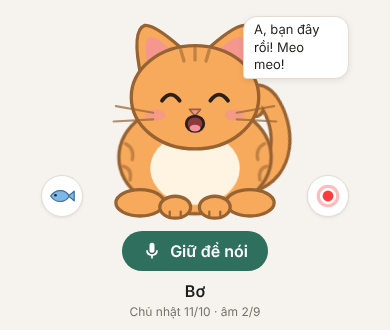
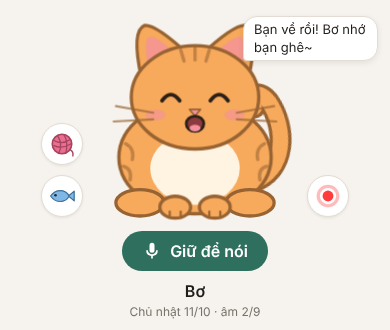
Bong bóng câu nói rộng hơn, không đè tai Bơ trên màn nhỏ
Claude-Session: https://claude.ai/code/session_01H9zge3Cp5n43mZAVMG47W6

diff --git a/web/meo.css b/web/meo.css
@@ -146,9 +146,10 @@ header.dang-laser { touch-action: none; cursor: crosshair; position: relative; }
 .len svg { width: 100%; height: 100%; display: block; }
 .len:active { cursor: grabbing; }
 .nut-meo[aria-pressed="true"] { border-color: #ff3b3b; box-shadow: 0 0 0 2px rgba(255,59,59,.3); }
-.bong { position: absolute; top: 0; left: calc(50% + 48px); max-width: min(170px, calc(50% - 48px)); z-index: 2;
+.bong { position: absolute; top: 0; left: calc(50% + 48px); width: max-content; max-width: min(170px, calc(50vw - 60px)); z-index: 2;
   background: var(--panel); color: var(--text); border: 1px solid var(--border); border-radius: 14px 14px 14px 4px;
   padding: 4px 10px; font-size: 13px; line-height: 1.35; box-shadow: 0 2px 6px rgba(0,0,0,.08); pointer-events: none; }
+@media (max-height: 640px) { .bong { left: calc(50% + 44px); max-width: min(150px, calc(50vw - 52px)); } }
 .tim { position: absolute; color: #f06a86; font-size: 18px; pointer-events: none; z-index: 2; transform: translate(-50%, -50%); }
 .ca-an { position: absolute; left: 50%; bottom: 0; width: 40px; height: 26px; margin-left: -20px; pointer-events: none; z-index: 2; }
 .ca-an svg { width: 100%; height: 100%; }

diff --git a/PROGRESS.md b/PROGRESS.md
@@ -11,6 +11,7 @@
 - Đang bật "Giọng nói": câu chơi **mừng rỡ, ăn cá, no, dỗi, làm lành, bị đánh thức** được đọc to (câu ngắn có sẵn, lưu đệm). Câu vuốt/chọc chỉ hiện chữ cho đỡ ồn. Giờ yên lặng thì không đọc.
 - **Cuộn len** (nút mới màu hồng, trên nút cá): cuộn len rơi xuống, lăn, nảy. **Kéo rồi ném** nó; len chạm người Bơ là Bơ vồ, đập văng ra. Bật laser thì len cất đi; 20 giây không đụng thì tự cất (Esc cũng cất).
 - Bơ biết "hôm nay bạn chơi cuộn len với Bơ N lần". 398 test qua hết.
+- Rà soát: bong bóng câu nói trên điện thoại nhỏ bị bó thành 3–4 dòng hẹp → giờ rộng hơn, không đè tai Bơ (ảnh `docs/anh/man-nho-toi.png`, màn 375×600 chế độ tối).
 **Tân cần thử:** bật "Giọng nói", cho Bơ ăn cá → nghe Bơ nói "Măm măm"; bấm nút cuộn len, kéo ném vào Bơ.
 
 ## 2026-10-11 – Giai đoạn 51: Bơ sống động hơn (không tốn API)

diff --git a/TASKS.md b/TASKS.md
@@ -288,7 +288,7 @@
 - [x] Giọng AI đổi nhẹ theo cảm xúc của câu: vui/hào hứng nhanh và cao hơn, buồn chậm và trầm hơn (giọng trình duyệt cũng vậy)
 - [x] Đang bật "Giọng nói": vài câu chơi (mừng rỡ, ăn cá, dỗi, làm lành) được đọc to bằng giọng AI (câu ngắn, có sẵn → lưu đệm, gần như không tốn mạng)
 - [x] Đồ chơi cuộn len: nút cuộn len (trên nút cá); kéo ném cuộn len, nó lăn và nảy, Bơ vồ đập văng khi len chạm người
-- [ ] Rà soát giai đoạn 52, sửa lỗi tìm được
+- [x] Rà soát giai đoạn 52, sửa lỗi tìm được
 
 ## Để sau (tạm dừng theo HUONG_PHAT_TRIEN.md)
 Giai đoạn 45 – Chuyện hỏi thăm rõ ràng hơn (chỉ làm khi Tân báo lỗi liên quan):
